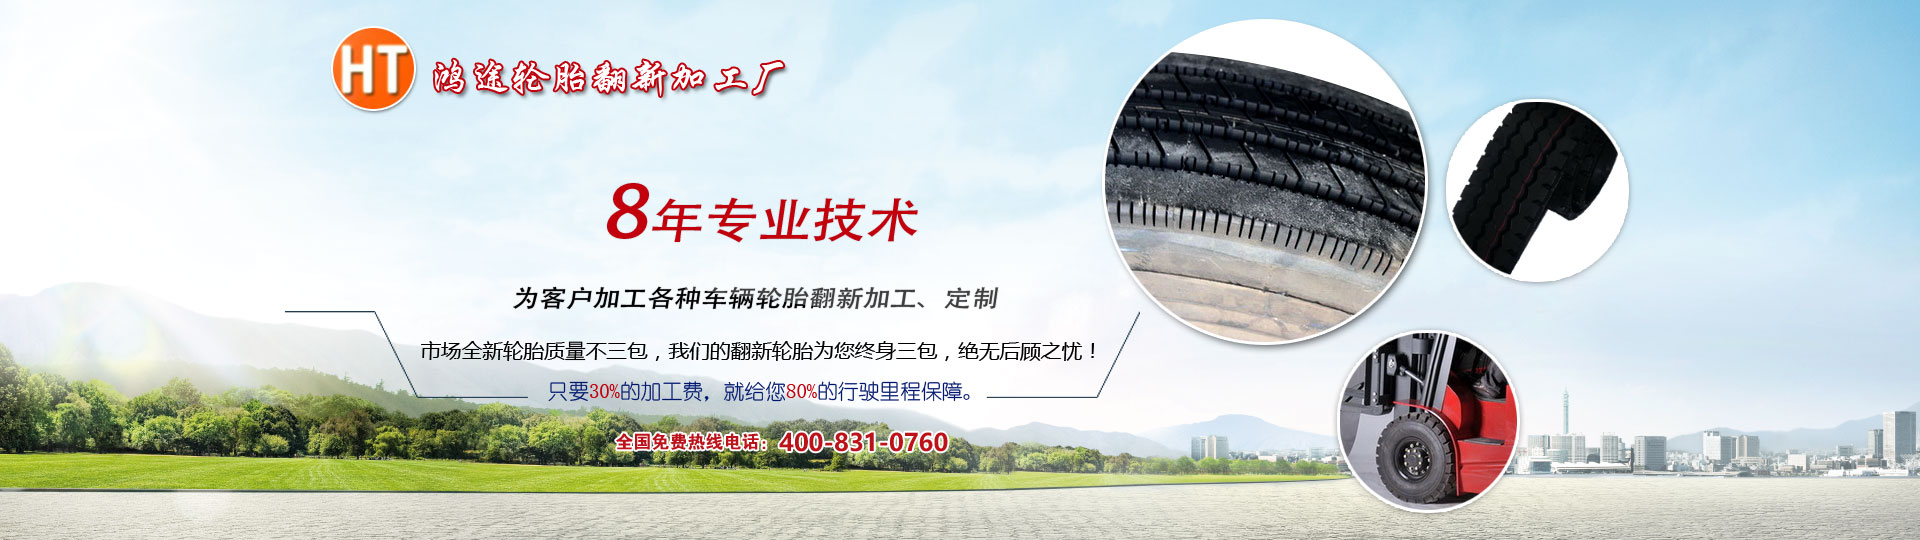
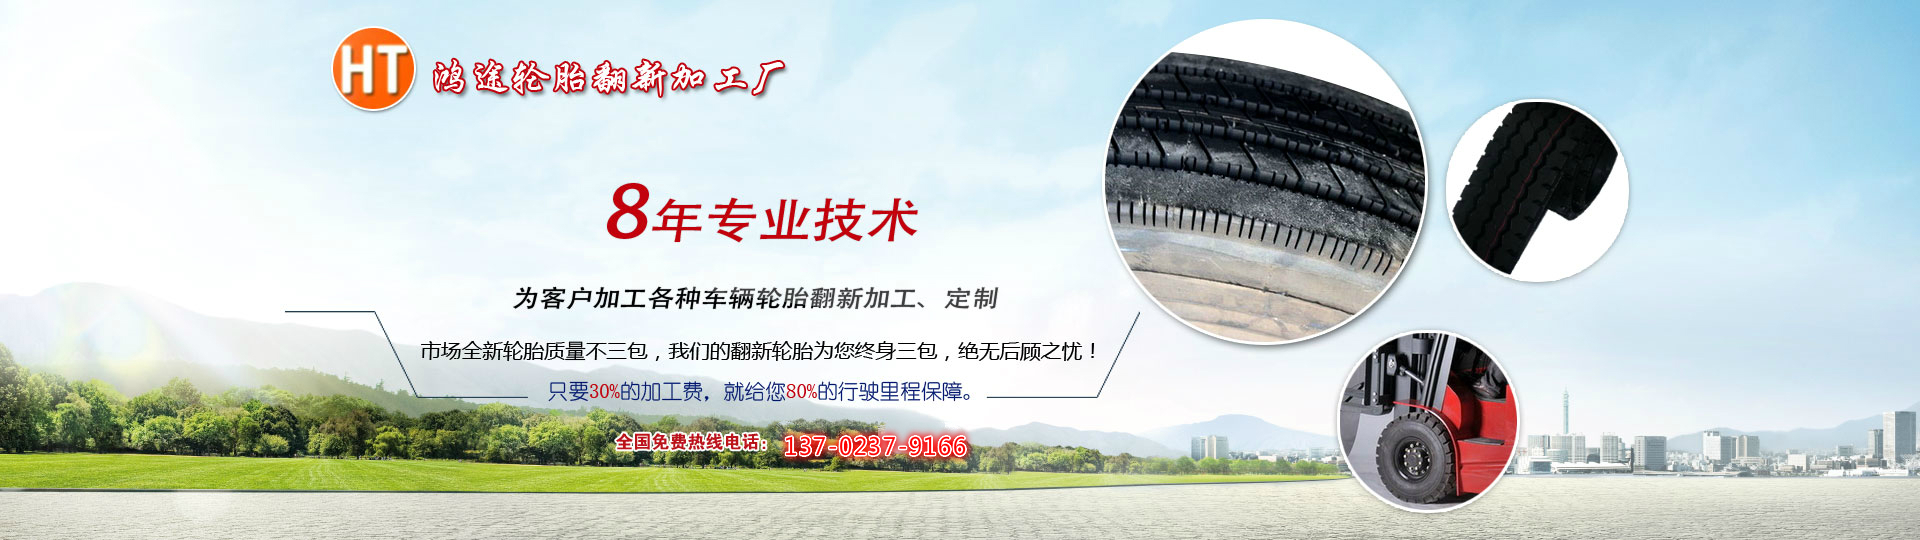
图片信息更改:wq!

Changed region(s): [[0.375, 0.7704, 0.5312, 0.8593]]

diff --git a/PC-index.html b/PC-index.html
@@ -1,4 +1,4 @@
-<!--    <a title="为客户加工各种车辆轮胎翻新加工、定制，市场全新轮胎质量不三包，我们的翻新轮胎为您终身三包，绝无后顾之忧！只要30%的加工费，就给您80%的行驶里程保障。全国免费热线电话：400-831-0760" alt="为客户加工各种车辆轮胎翻新加工、定制，市场全新轮胎质量不三包，我们的翻新轮胎为您终身三包，绝无后顾之忧！只要30%的加工费，就给您80%的行驶里程保障。全国免费热线电话：400-831-0760">
+<!--    <a title="为客户加工各种车辆轮胎翻新加工、定制，市场全新轮胎质量不三包，我们的翻新轮胎为您终身三包，绝无后顾之忧！只要30%的加工费，就给您80%的行驶里程保障。全国免费热线电话：137-0237-9166" alt="为客户加工各种车辆轮胎翻新加工、定制，市场全新轮胎质量不三包，我们的翻新轮胎为您终身三包，绝无后顾之忧！只要30%的加工费，就给您80%的行驶里程保障。全国免费热线电话：137-0237-9166">
         <div id="banner">
 
         </div>
@@ -7,19 +7,21 @@
     <div id="top">
         <div id="top-con">
             <div  style="font-size: 15px" class="t-left t14">欢迎来到：中山市三乡镇鸿途轮胎加工厂</div>
-            <div  style="font-size: 15px"  class="t-right t14">全国免费热线：400-831-0760<span></span></div>
+            <div  style="font-size: 15px"  class="t-right t14">全国免费热线：137-0237-9166<span></span></div>
         </div>
     </div>
     <div id="nav-bg">
         <div id="nav">
             <ul>
-                <li  ng-click="tabPage = 'home'"  ><a ng-class="{'mycolor': tabPage == 'home'}">首页</a></li>
-                <li  ng-click="tabPage = 'product'" ><a ng-class="{'mycolor': tabPage == 'product'}">产品展示</a></li>
-                <li ng-click="tabPage = 'product-flow'" ><a ng-class="{'mycolor': tabPage == 'product-flow'}">生产工艺展示</a></li>
-                <li  ng-click="tabPage = 'customer'" ><a ng-class="{'mycolor': tabPage == 'customer'}" >客户的见证</a></li>
-                <li ng-click="tabPage = 'advantage'" ><a ng-class="{'mycolor': tabPage == 'advantage'}">我们的优势</a></li>
-                <li ng-click="tabPage = 'honor'"    ><a ng-class="{'mycolor': tabPage == 'honor'}" >公司荣誉</a></li>
-                <li ng-click="tabPage = 'contact'" ><a ng-class="{'mycolor': tabPage == 'contact'}">联系我们</a></li>
+                <li  ng-click="tabPage = 'home';productType = 'common'"  ><a ng-class="{'mycolor': tabPage == 'home'}">首页</a></li>
+                <li  ng-click="tabPage = 'product'; productType = 'common'" ><a ng-class="{'mycolor': tabPage == 'product'}">产品展示</a></li>
+                <li  ng-click="tabPage = 'product'; productType='gongjiao'" ><a  href="#pro_content" ng-class="{'mycolor': productType == 'gongjiao'}">公交车轮胎翻新</a></li>
+                <li  ng-click="tabPage = 'product'; productType='huoche'" ><a  href="#pro_content" ng-class="{'mycolor': productType == 'huoche'}">货柜车轮胎翻新</a></li>
+                <li ng-click="tabPage = 'product-flow';productType = 'common'"; ><a ng-class="{'mycolor': tabPage == 'product-flow'}">生产工艺展示</a></li>
+                <li  ng-click="tabPage = 'customer'; productType = 'common'" ><a ng-class="{'mycolor': tabPage == 'customer'}" >客户的见证</a></li>
+                <li ng-click="tabPage = 'advantage'; productType = 'common'" ><a ng-class="{'mycolor': tabPage == 'advantage'}">我们的优势</a></li>
+                <li ng-click="tabPage = 'honor'; productType = 'common'"    ><a ng-class="{'mycolor': tabPage == 'honor'}" >公司荣誉</a></li>
+                <li ng-click="tabPage = 'contact'; productType = 'common'" ><a ng-class="{'mycolor': tabPage == 'contact'}">联系我们</a></li>
 
             </ul>
         </div>
@@ -28,7 +30,7 @@
 
     <home ng-show="tabPage=='home'"></home>
     <customer ng-show="tabPage=='customer'"></customer>
-    <product ng-show="tabPage=='product'"></product>
+    <product product-type="productType" ng-show="tabPage=='product'"></product>
     <product-flow ng-show="tabPage == 'product-flow'"></product-flow>
     <honor ng-show="tabPage == 'honor'"></honor>
     <contact ng-show="tabPage == 'contact'"></contact>
@@ -53,7 +55,7 @@
 
             <p style="font-size: 16px">版权所属 Copyright(C)2016 中山市三乡镇鸿途轮胎加工厂  .All Rights Reserved.</p>
 
-            <p style="font-size: 16px">联系地址：广东省中山市神湾镇南沙大道光辉路7号 电 话：400-831-0760  邮 箱：3102145301@qq.com <a href="http://www.miitbeian.gov.cn">备案号：粤ICP备16045601号</a></p>
+            <p style="font-size: 16px">联系地址：广东省中山市神湾镇南沙大道光辉路7号 电 话：137-0237-9166  邮 箱：3102145301@qq.com <a href="http://www.miitbeian.gov.cn">备案号：粤ICP备16045601号</a></p>
 
         </div></div>
 </div>

diff --git a/js/module/home.html b/js/module/home.html
@@ -1,4 +1,4 @@
-<a title="为客户加工各种车辆轮胎翻新加工、定制，市场全新轮胎质量不三包，我们的翻新轮胎为您终身三包，绝无后顾之忧！只要30%的加工费，就给您80%的行驶里程保障。全国免费热线电话：400-831-0760" alt="为客户加工各种车辆轮胎翻新加工、定制，市场全新轮胎质量不三包，我们的翻新轮胎为您终身三包，绝无后顾之忧！只要30%的加工费，就给您80%的行驶里程保障。全国免费热线电话：400-831-0760">
+<a title="为客户加工各种车辆轮胎翻新加工、定制，市场全新轮胎质量不三包，我们的翻新轮胎为您终身三包，绝无后顾之忧！只要30%的加工费，就给您80%的行驶里程保障。全国免费热线电话：137-0237-9166" alt="为客户加工各种车辆轮胎翻新加工、定制，市场全新轮胎质量不三包，我们的翻新轮胎为您终身三包，绝无后顾之忧！只要30%的加工费，就给您80%的行驶里程保障。全国免费热线电话：137-0237-9166">
     <div id="banner">
 
     </div>
@@ -96,8 +96,7 @@
 </div>
 <customer ></customer>
 <advantage ></advantage>
-<product-flow ></product-flow>
-<product ></product>
+<product id="product"></product>
 <honor ></honor>
 <div id="index_ban"></div>
 

diff --git a/index.html b/index.html
@@ -64,7 +64,7 @@
             background: #eeefef;
         }
         #nav {
-            width: 1150px;
+            width: 1250px;
             height: 45px;
             margin: 0 auto;
         }
@@ -89,7 +89,7 @@
         }
         #nav li a:hover, #nav li a:focus {
             color: #2dff7f;
-            padding: 0 40px 10px;
+          /*  padding: 0 40px 5px;*/
 
         }
 

diff --git a/js/index.js b/js/index.js
@@ -63,6 +63,9 @@ app.directive('customer', [function(){
 app.directive('product', [function(){
     return {
         restrict:'ACE',
+        scope:{
+            productType:'='
+        },
         templateUrl:'js/module/product-show.html',
         controller:['$scope', function($scope){
             $scope.back = function(){
